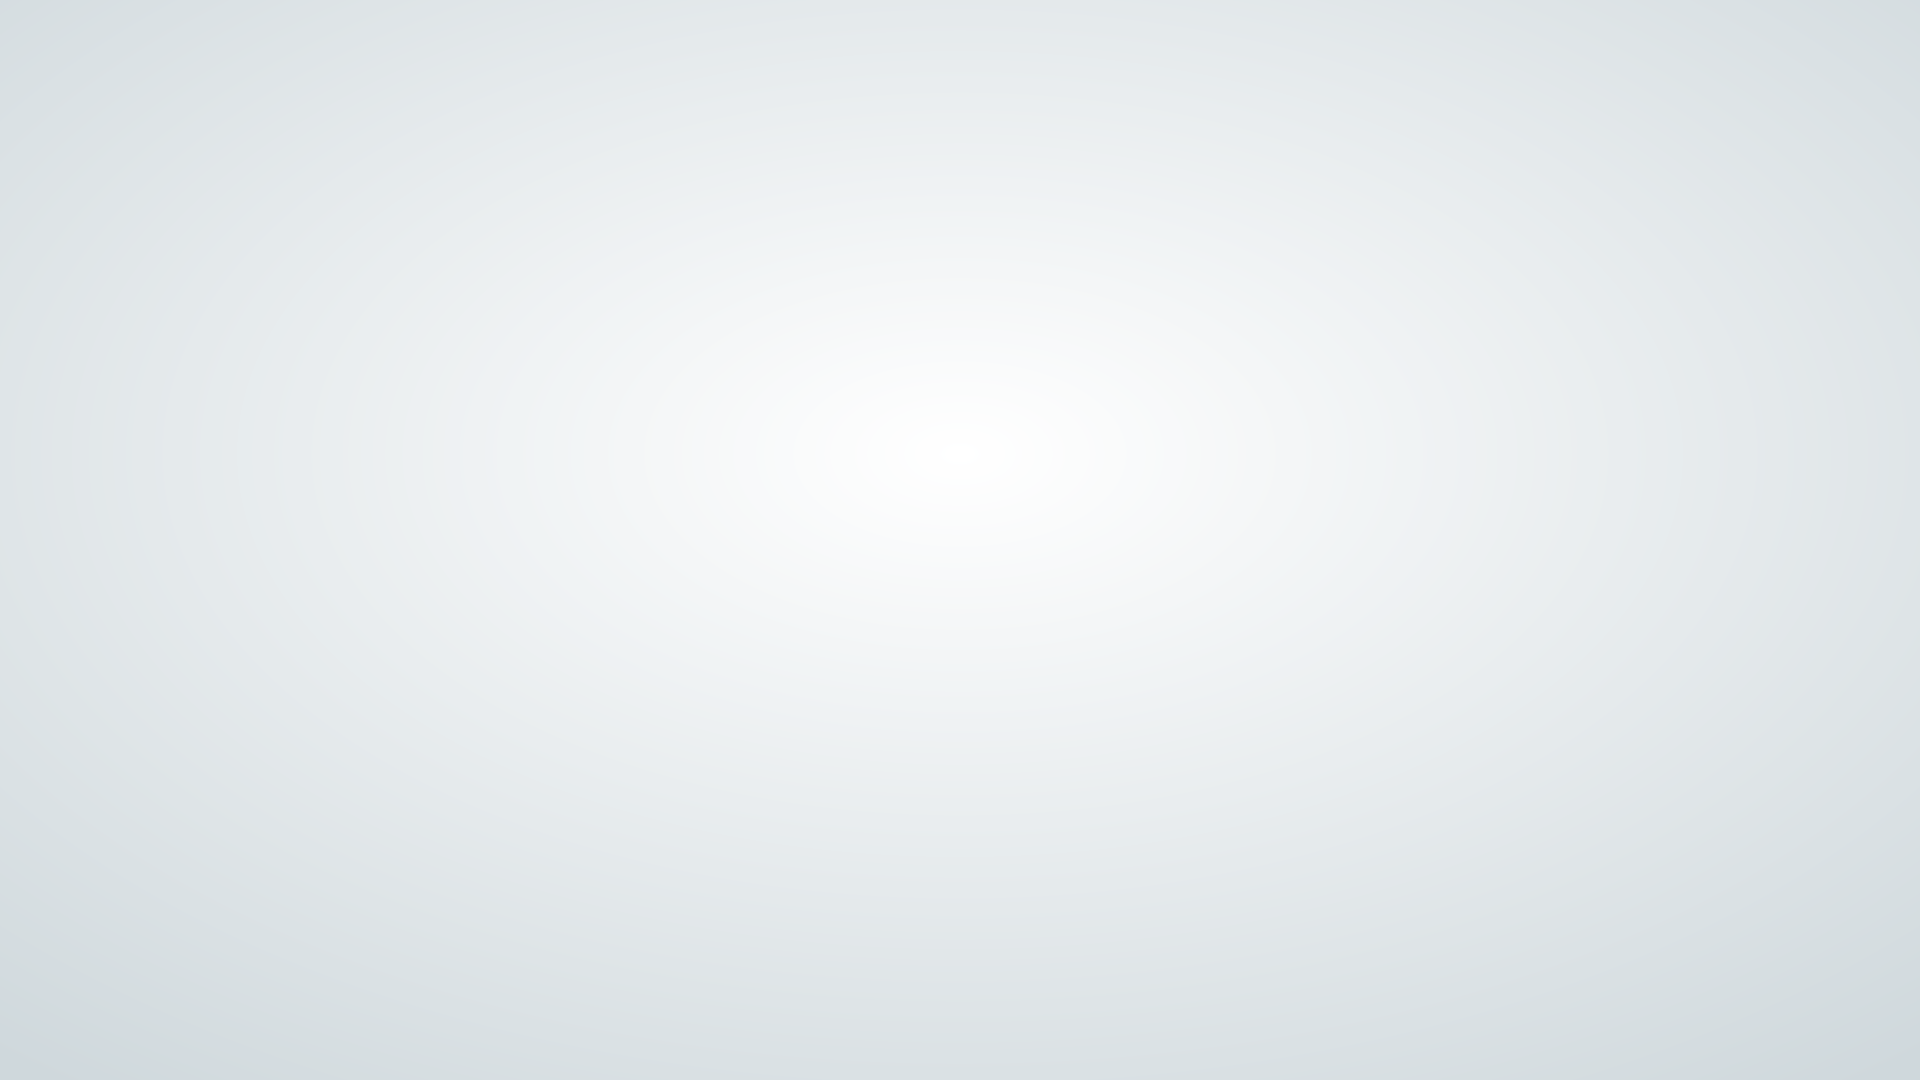
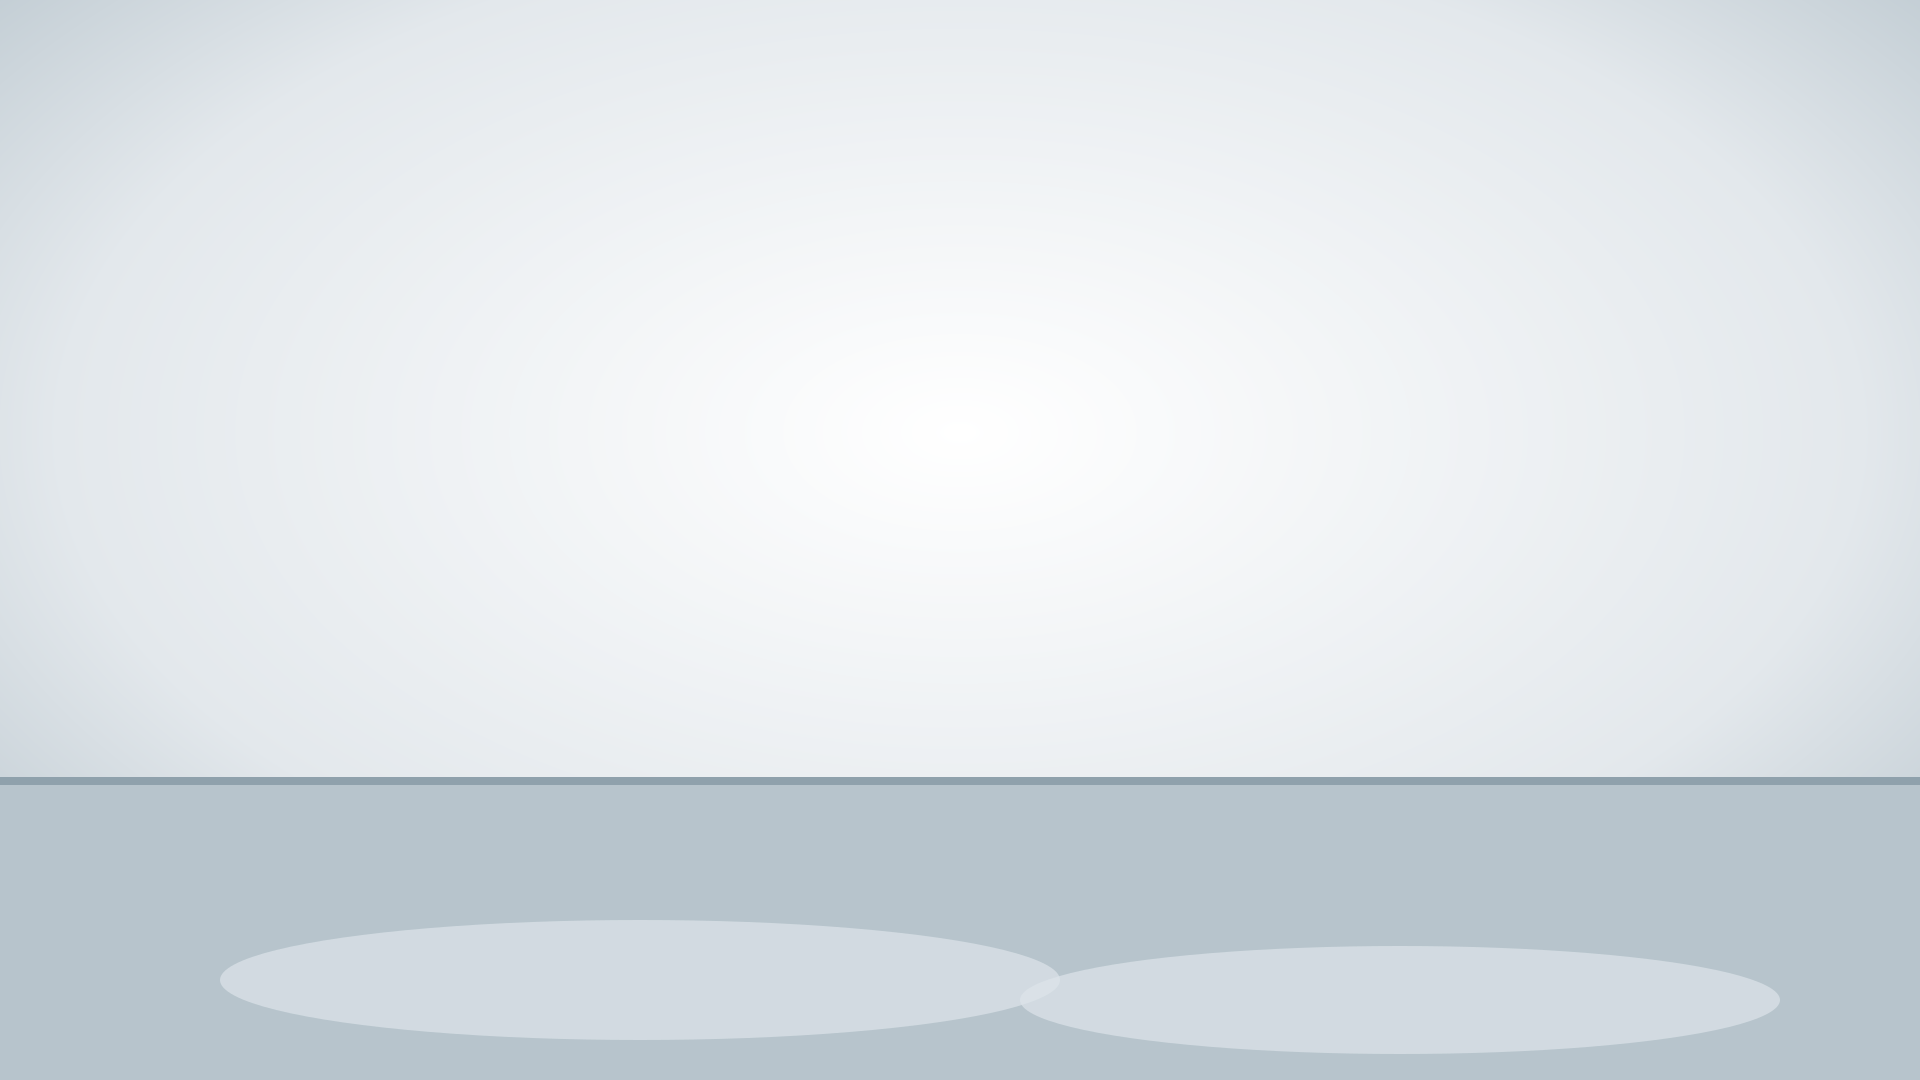
hyperframes vendor: sound effects and image visuals
- script[].se: per-line audio clip (src relative to the project,
  duration probed via ffprobe, data-volume honored, placed on its own
  track at the line start)
- script[].visual.type image: centered image card in the line window
  (asset referenced relative to the project, ships with it)
- vendor AGENTS.md capability rows updated; the se gate and the
  not-supported errors are gone
- hf-demo gains a chime on line 1 and an image card on line 4 to
  exercise both paths

Verified: hf-demo renders clean, composition contains the se clip and
image card, duration guard green, visibility lint passes.

Changed region(s): [[0.0, 0.7028, 1.0, 1.0]]

diff --git a/assets/background/generate_themes.py b/assets/background/generate_themes.py
@@ -11,7 +11,7 @@ from pathlib import Path
 
 import cairosvg
 
-OUT = Path("/mnt/data/work/content_engine/vendors/remotion/assets/backgrounds")
+OUT = Path("/mnt/data/work/content_engine/assets/backgrounds")
 W, H = 1920, 1080
 
 logging.basicConfig(level=logging.INFO, format="%(levelname)s %(message)s")
@@ -128,13 +128,23 @@ def sunrise():
 
 def studio():
     defs = (
-        '<radialGradient id="g" cx="0.5" cy="0.42" r="0.75">'
+        '<radialGradient id="g" cx="0.5" cy="0.40" r="0.85">'
         '<stop offset="0" stop-color="#FFFFFF"/>'
-        '<stop offset="1" stop-color="#CFD8DC"/>'
+        '<stop offset="0.55" stop-color="#E3E8EC"/>'
+        '<stop offset="1" stop-color="#9FB0BA"/>'
         "</radialGradient>"
     )
-    body = f'<rect width="{W}" height="{H}" fill="url(#g)"/>'
-    checks = [(960, 450, "#FFFFFF", 8), (30, 30, "#CFD8DC", 16)]
+    body = [
+        f'<rect width="{W}" height="{H}" fill="url(#g)"/>',
+        # stage floor: darker band across the lower third
+        f'<rect x="0" y="{int(H * 0.72)}" width="{W}" height="{H - int(H * 0.72)}" fill="#B7C4CC"/>',
+        f'<rect x="0" y="{int(H * 0.72)}" width="{W}" height="8" fill="#8FA1AC"/>',
+        # spotlight pools on the floor
+        '<ellipse cx="640" cy="980" rx="420" ry="60" fill="#DDE5EA" opacity="0.7"/>',
+        '<ellipse cx="1400" cy="1000" rx="380" ry="54" fill="#DDE5EA" opacity="0.7"/>',
+    ]
+    body = "".join(body)
+    checks = [(960, 300, "#FFFFFF", 10), (30, 30, "#CAD4DB", 10), (60, 1000, "#B7C4CC", 14)]
     return svg_wrap(body, defs), checks
 
 

diff --git a/vendors/hyperframes/AGENTS.md b/vendors/hyperframes/AGENTS.md
@@ -37,8 +37,8 @@ else `project.yaml`.
 | script[].pause_after | subtitle/card tail | seconds, natural speed |
 | script[].emotion | - | needs emotion art variants; otherwise invisible |
 | script[].visual.type text | centered text card per line | dark outline by default, override with outline_color |
-| script[].visual.type image | - | not supported yet: errors |
-| script[].se | - | not supported yet: errors |
+| script[].visual.type image | centered image card | src relative to the project; asset ships in the project |
+| script[].se | per-line audio clip | src relative to the project; duration probed; data-volume honored |
 | settings.background | background.png | theme from the shared catalog, riverbank default; project custom file wins |
 | settings.font / subtitle / character | css | font, subtitle placement, character height, use_images |
 | vendor.hyperframes.estimate_cps | timing estimate | chars per second, default 7.5 |
